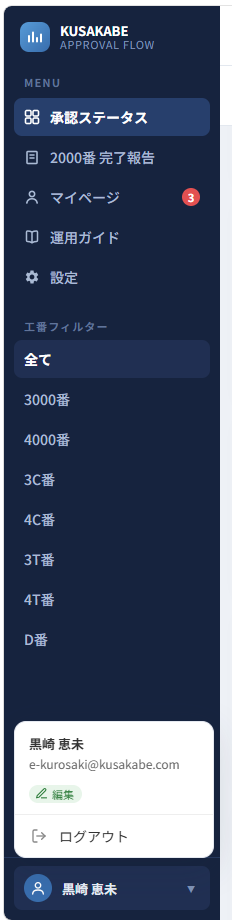
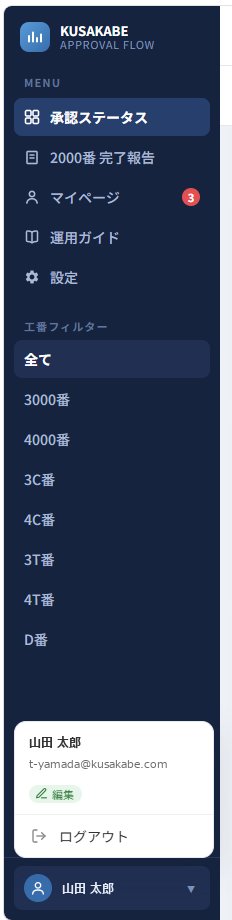
運用ガイド Chapter 4: スクリーンショットの名前を見本の名前（山田 太郎）にし、番号を画像の左側に表示する

Changed region(s): [[0.1207, 0.7913, 0.7543, 0.8522], [0.2716, 0.9435, 0.5129, 0.9739]]

diff --git a/guide.html b/guide.html
@@ -702,16 +702,16 @@
             <div class="compare-visual">
             <div class="mockup shot-mockup" style="width:250px; padding:0; background:none; box-shadow:none; border:none;">
                 <div style="position:relative; width:250px;">
-                    <div style="width:218px; overflow:hidden; border-radius:10px;"><!-- 画像の右端に写り込んだアプリ本体の白い部分を隠す -->
+                    <div style="width:218px; margin-left:32px; overflow:hidden; border-radius:10px;"><!-- 画像の右端に写り込んだアプリ本体の白い部分を隠す。左の余白は番号用 -->
                         <img src="guide_images/06_sidebar_user_menu.png" alt="左サイドメニューの画面（左下のユーザー名を押してメニューを開いた状態）" width="232" height="920" style="display:block; max-width:none;">
                     </div>
-                    <span class="callout" style="position:absolute; left:226px; top:12.7%; transform:translateY(-50%);">1</span>
-                    <span class="callout" style="position:absolute; left:226px; top:17.1%; transform:translateY(-50%);">2</span>
-                    <span class="callout" style="position:absolute; left:226px; top:21.4%; transform:translateY(-50%);">3</span>
-                    <span class="callout" style="position:absolute; left:226px; top:25.8%; transform:translateY(-50%);">4</span>
-                    <span class="callout" style="position:absolute; left:226px; top:30.1%; transform:translateY(-50%);">5</span>
-                    <span class="callout" style="position:absolute; left:226px; top:35.4%; transform:translateY(-50%);">6</span>
-                    <span class="callout" style="position:absolute; left:226px; top:96.3%; transform:translateY(-50%);">7</span>
+                    <span class="callout" style="position:absolute; left:4px; top:12.7%; transform:translateY(-50%);">1</span>
+                    <span class="callout" style="position:absolute; left:4px; top:17.1%; transform:translateY(-50%);">2</span>
+                    <span class="callout" style="position:absolute; left:4px; top:21.4%; transform:translateY(-50%);">3</span>
+                    <span class="callout" style="position:absolute; left:4px; top:25.8%; transform:translateY(-50%);">4</span>
+                    <span class="callout" style="position:absolute; left:4px; top:30.1%; transform:translateY(-50%);">5</span>
+                    <span class="callout" style="position:absolute; left:4px; top:35.4%; transform:translateY(-50%);">6</span>
+                    <span class="callout" style="position:absolute; left:4px; top:96.3%; transform:translateY(-50%);">7</span>
                 </div>
                 <div class="mockup-caption">左サイドメニュー（左下のユーザー名を押して、メニューを開いた状態）</div>
             </div>
